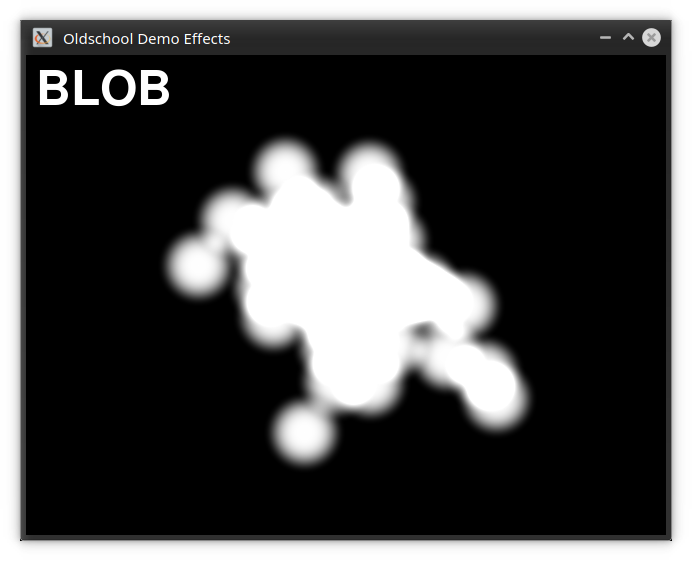
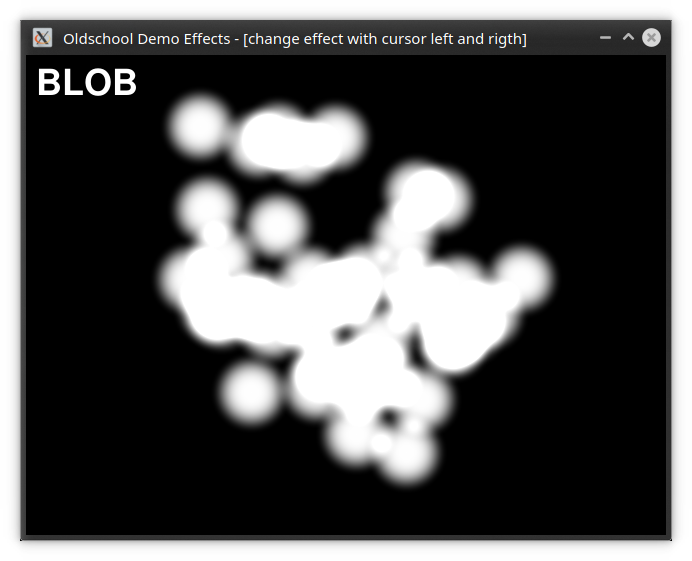
font height from 48px to 36px changed

Changed region(s): [[0.0607, 0.1212, 0.8194, 0.8788], [0.3338, 0.0606, 0.7587, 0.0909]]

diff --git a/src/main.cpp b/src/main.cpp
@@ -67,7 +67,7 @@ int main()
 	sprintf(font_filename, "%s/MuktiNarrowBold.ttf", DATA_PATH);
 	cout << font_filename << endl;
 
-	font_01 = TTF_OpenFont(font_filename, 48);
+	font_01 = TTF_OpenFont(font_filename, 36);
 	if(!font_01)
 	{
 		cout << "Error: TTF_OpenFont." << endl;
@@ -170,7 +170,7 @@ int main()
 
 		SDL_Rect src_rec = {0,0,text_surface->w, text_surface->h};
 		SDL_Rect dst_rec = src_rec;
-        dst_rec.y = -10;
+		dst_rec.y = -5;
         dst_rec.x = 10;
 		SDL_Texture *texture = SDL_CreateTextureFromSurface(renderer_out, text_surface);
 		SDL_RenderCopy(renderer_out, texture, &src_rec, &dst_rec);
